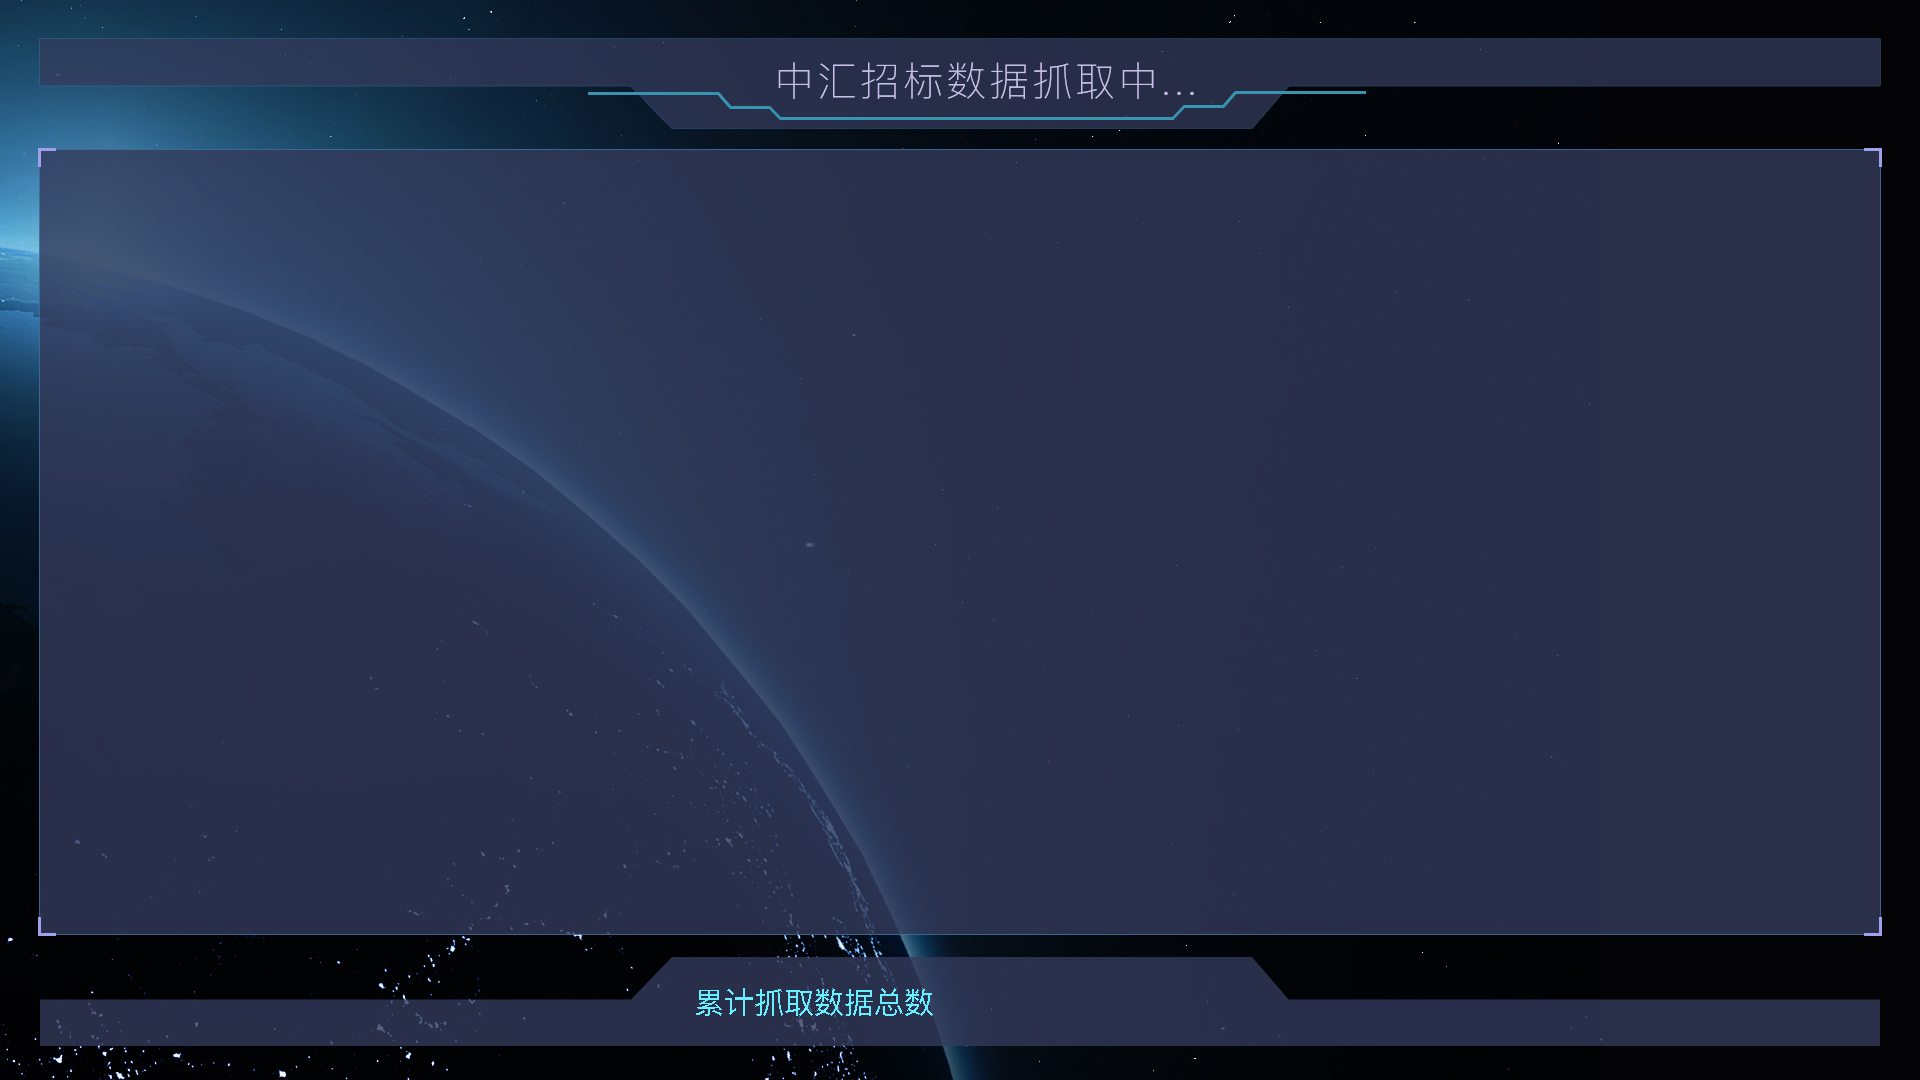
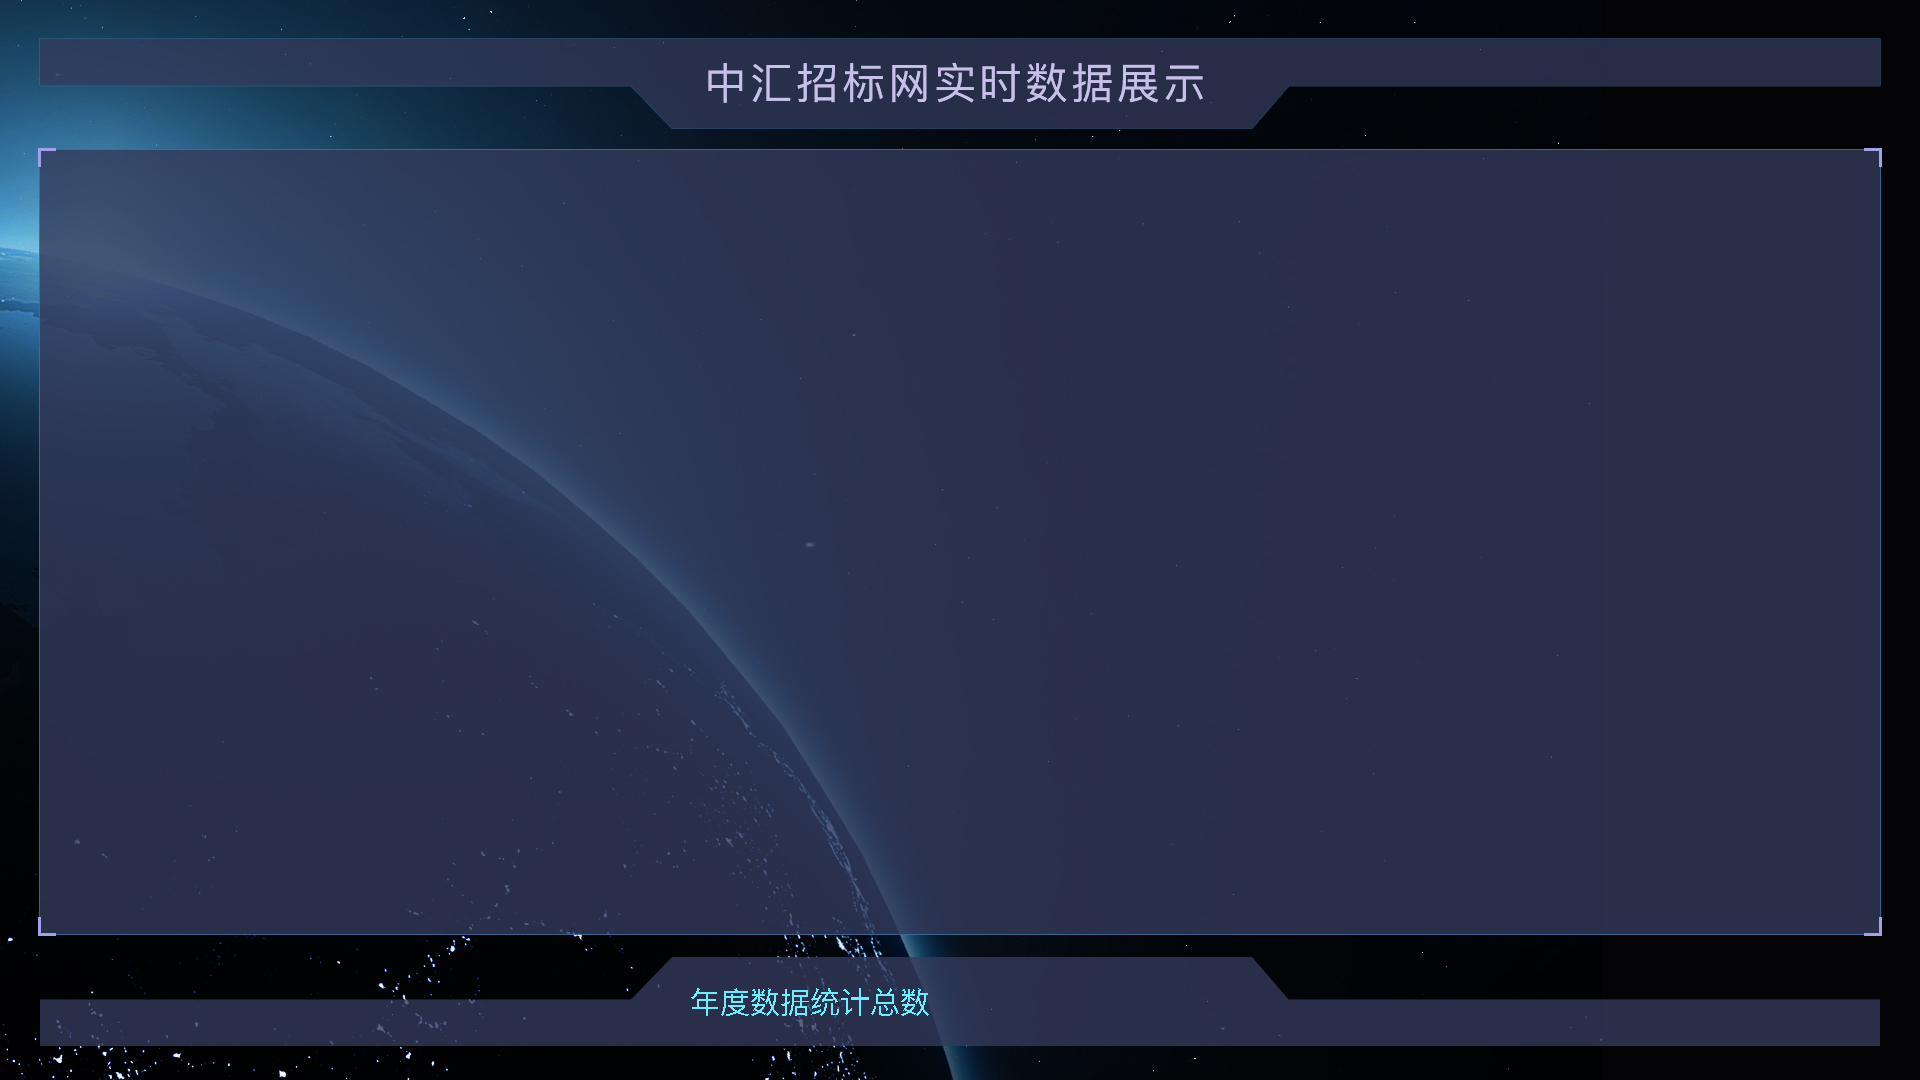
数据抓取

Changed region(s): [[0.3438, 0.0611, 0.625, 0.1222], [0.3438, 0.9167, 0.5, 0.9472]]

diff --git a/数据抓取/index.html b/数据抓取/index.html
@@ -8,45 +8,63 @@
     <title>index</title>
     <script src="./jquery-1.9.1.min.js"></script>
     <style>
-        html,body {
+        html,
+        body {
             margin: 0;
             padding: 0;
+            overflow: hidden;
         }
+
         .box {
             width: 100%;
             height: 100%;
-            /* background-image: url(./bg.jpg); */
-            /* background-size: cover; */
-            /* position: relative; */
         }
 
         .box img {
-            position: relative;
+            /* position: relative; */
+            width: 100%;
+            height: auto;
+            background-size: contain;
         }
 
         .box .box1 {
-            position: absolute;
+            position: fixed;
             top: 160px;
             left: 60px;
-            /* width: 100px;
-            height: 150px;
-            background-color: brown; */
+            width: 100%;
         }
 
         .box .box2 {
-            position: absolute;
+            position: fixed;
             top: 957px;
             left: 957px;
             width: 100px;
             height: 50px;
-            /* background-color: brown; */
             color: #28f3c5;
             font-size: 48px;
         }
-
+        .box .box3 {
+            position: fixed;
+            top: 15%;
+            right: 4%;
+            /* width: 100px;
+            height: 50px; */
+            color: #fff;
+            font-size: 48px;
+        }
+        .box .box3 .num {
+            position: absolute;
+            top: 20%;
+            right: 20%;
+            font-size: 48px;
+        }
         li {
             list-style: none;
             padding: 10px 0;
+            width: 70%;
+            overflow: hidden;
+            text-overflow: ellipsis;
+            white-space: nowrap;
         }
 
         span {
@@ -57,29 +75,21 @@
 </head>
 
 <body>
-    <!-- <div id="sse">
-        <a href="javascript:WebSocketTest()">运行 WebSocket</a>
-    </div> -->
     <script type="text/javascript">
         var _time;
         function WebSocketTest() {
             // alert(1)
             if ("WebSocket" in window) {
-                // console.log("您的浏览器支持WebSocket");
                 let a = new WebSocket(encodeURI('ws://192.168.0.36:7999/echo'));
                 // a.onopen = function () {
-
-                //     a.send("123aa");
-                // }
-                // a.onopen = function () {
-                //     a.send("123aabbbb");
                 // }
                 a.onmessage = function (msg) {
                     // console.log(msg);
 
                     data = eval('(' + msg.data + ')');
-                    // console.log(data.count)
+                    // console.log(data)
                     $(".box2").text(data.count);
+                    $(".box .box3 .num").text(data.today);
                     var index = 0,
                         size = data.list.length,
                         count = 18;
@@ -90,15 +100,15 @@
                         }
                     })
                 }
-                a.onclose = function(){ 
-                  // 关闭 websocket
-                //   alert(1)
-                  clearTimeout(_time);
-                  _time = setTimeout(function(){
-                    WebSocketTest();
-                    // console.log(121)
-                  },2000);
-               };
+                a.onclose = function () {
+                    // 关闭 websocket
+                    //   alert(1)
+                    clearTimeout(_time);
+                    _time = setTimeout(function () {
+                        WebSocketTest();
+                        // console.log(121)
+                    }, 2000);
+                };
             } else {
                 // console.log("您的浏览器不支持WebSocket");
             }
@@ -106,11 +116,15 @@
         WebSocketTest();
     </script>
     <div class="box">
-        <img src="./bg.jpg" alt="" height="100%" width="100%">
+        <img src="./bg.jpg" alt="">
         <div class="box1">
 
         </div>
         <div class="box2"></div>
+        <div class="box3">
+            <img src="./bg1.png" alt="">
+            <div class="num"></div>
+        </div>
     </div>
 </body>
 
